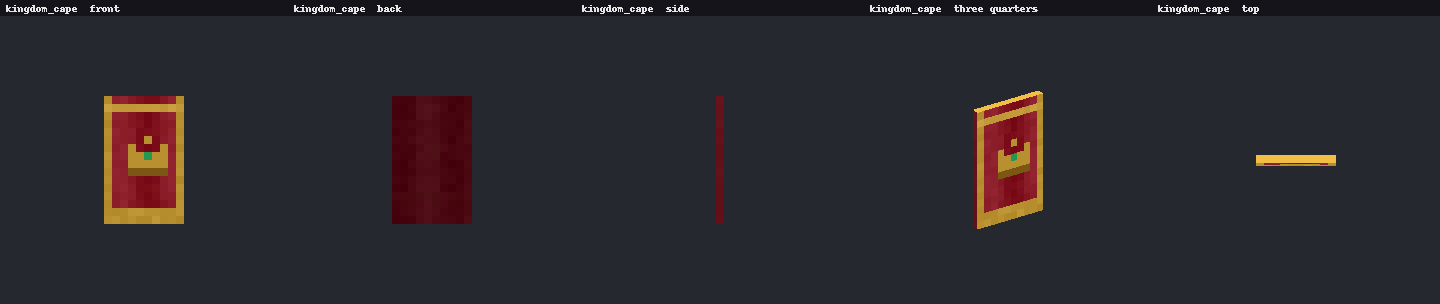
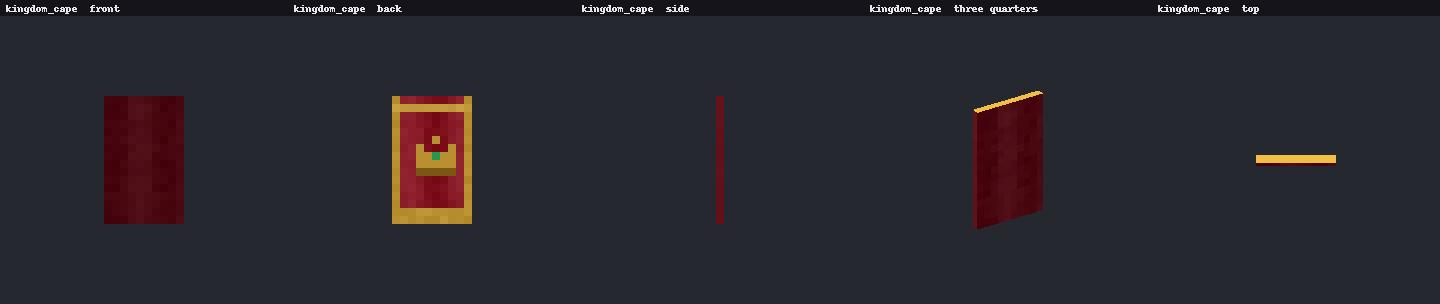
Foundry: back models mirrored front to back instead of turned, so left and right stay put
A display shows a model as it is (north toward -z, +x to +x). Turning back items
half way fixed their front but swapped left and right (wings crossed, pauldron
lames toward the neck). The generator now mirrors the pauldron, cape and wings
front to back, and a gametest pins left and right.

diff --git a/foundry/src/gametest/java/foundry/gametest/WornGameTest.java b/foundry/src/gametest/java/foundry/gametest/WornGameTest.java
@@ -202,6 +202,11 @@ public final class WornGameTest {
         return m.transformDirection(new org.joml.Vector3f(0, 0, -1)).normalize();
     }
 
+    /** A back model is built mirrored front to back, so its outer face is its +z. */
+    private static org.joml.Vector3f outward(org.joml.Matrix4f m) {
+        return m.transformDirection(new org.joml.Vector3f(0, 0, 1)).normalize();
+    }
+
     private static org.joml.Vector3f flat(org.joml.Vector3f v) {
         return new org.joml.Vector3f(v.x, 0, v.z).normalize();
     }
@@ -224,12 +229,31 @@ public final class WornGameTest {
         var cape = foundry.core.WornPlacement.of("chest/cape").orElseThrow();
         var g = front(foundry.mc.WornDisplays.transformFor(wearer, gills));
         // the cape hangs tilted (vanilla's 6 degrees at rest), so only its horizontal facing is compared
-        var c = flat(front(foundry.mc.WornDisplays.transformFor(wearer, cape)));
+        var c = flat(outward(foundry.mc.WornDisplays.transformFor(wearer, cape)));
         helper.assertTrue(near(g, 0, 0, 1), "The gills should face where the head looks (south) but face " + g);
         helper.assertTrue(near(c, 1, 0, 0), "The cape should face out of the back of a body turned west (east) but faces " + c);
         wearer.yBodyRot = 0f;
-        var c2 = flat(front(foundry.mc.WornDisplays.transformFor(wearer, cape)));
+        var c2 = flat(outward(foundry.mc.WornDisplays.transformFor(wearer, cape)));
         helper.assertTrue(near(c2, 0, 0, -1), "Turning the body south should turn the cape to face north but it faces " + c2);
+        helper.succeed();
+    }
+
+    /**
+     * Left and right are never swapped: a back model's +x (the pauldron's lames, the right wing) stays on the player's
+     * right. Facing south, the player's right is west (-x); facing east, it is south (+z).
+     */
+    @GameTest(maxTicks = 20)
+    public void backItemsKeepLeftAndRight(GameTestHelper helper) {
+        ServerPlayer wearer = player(helper, null);
+        var pauldron = foundry.core.WornPlacement.of("chest/back").orElseThrow();
+        wearer.yBodyRot = 0f;
+        var right = flat(foundry.mc.WornDisplays.transformFor(wearer, pauldron).transformDirection(new org.joml.Vector3f(1, 0, 0)));
+        helper.assertTrue(near(right, -1, 0, 0), "Facing south, the pauldron's outward side should point west but points " + right);
+        wearer.yBodyRot = -90f;
+        var right2 = flat(foundry.mc.WornDisplays.transformFor(wearer, pauldron).transformDirection(new org.joml.Vector3f(1, 0, 0)));
+        helper.assertTrue(near(right2, 0, 0, 1), "Facing east, the pauldron's outward side should point south but points " + right2);
+        var at = foundry.mc.WornDisplays.transformFor(wearer, pauldron).getTranslation(new org.joml.Vector3f());
+        helper.assertTrue(at.z > 0.2f, "Facing east, the pauldron should sit on the right (south) shoulder but sits at " + at);
         helper.succeed();
     }
 

diff --git a/foundry/src/main/java/foundry/mc/WornDisplays.java b/foundry/src/main/java/foundry/mc/WornDisplays.java
@@ -504,7 +504,7 @@ public final class WornDisplays {
      *       pitch (crouching lowers the head 4.2 pixels); a body item pivots at the neck too and leans forward half a
      *       radian about the chest while crouching;</li>
      *   <li>the placement's up/back/side offset (heights measured from the feet when standing) and extra rotation, and
-     *       a body item is turned to face out from the back; a swinging item (the cape) hangs from that point and swings back by
+     *       a back item's model is already mirrored to face out from the back; a swinging item (the cape) hangs from that point and swings back by
      *       the cape tilt;</li>
      *   <li>scale, or nothing at all while the player is invisible or asleep.</li>
      * </ol>
@@ -557,10 +557,11 @@ public final class WornDisplays {
             m.rotateX((float) Math.toRadians(-capeTilt));
             m.translate(0, -0.25f * p.scale(), 0);
         }
-        // A model's front (its north face) shows toward the display's -z. A head item keeps that, so it faces forward with
-        // the head; a body item is given a half turn so its front faces out from the back (found in game: without it the
-        // wings and the cape showed their inner side outward).
-        if (!p.onHead()) m.rotateY((float) Math.PI);
+        // A display shows a model as it is: its north face toward the display's -z, its +x to the display's +x. Here -z is
+        // forward and +x is the player's right, so a head model faces forward. Back models (pauldron, cape, wings) are
+        // built mirrored front to back by tools/gen_trinket_models.py so their outer face looks out from the back. A half
+        // turn here instead would also swap left and right (found in game: the wings crossed over and the pauldron's lames
+        // pointed at the neck).
         m.rotateXYZ((float) Math.toRadians(p.rx()), (float) Math.toRadians(p.ry()), (float) Math.toRadians(p.rz()));
         boolean shown = !player.isInvisible() && !player.isSleeping();
         float scale = shown ? p.scale() : 0f;

diff --git a/foundry/tools/gen_trinket_models.py b/foundry/tools/gen_trinket_models.py
@@ -405,6 +405,28 @@ def paint_wings():
     return img
 
 
+# Models worn on the back. An item display shows a model as it is: its north face (-z) toward the display's -z, its +x
+# to the display's +x. A body display sits behind the player with its -z toward their back, so these models are built
+# front first as usual and then mirrored front to back (never turned, which would also swap left and right), so their
+# outer face looks out from the back while the pauldron's lames still point out over the arm.
+BACK_ITEMS = {"forgeman_pauldron", "kingdom_cape", "fairy_wings"}
+
+
+def mirror_front_to_back(el):
+    """The element reflected across the z = 8 plane: north and south faces swap, and turns about x or y reverse."""
+    f, t = el["from"], el["to"]
+    out = {"from": [f[0], f[1], 16 - t[2]], "to": [t[0], t[1], 16 - f[2]], "faces": {}}
+    swap = {"north": "south", "south": "north"}
+    for name, face in el["faces"].items():
+        out["faces"][swap.get(name, name)] = face
+    if "rotation" in el:
+        r = el["rotation"]
+        o = list(r["origin"])
+        o[2] = 16 - o[2]
+        out["rotation"] = {"origin": o, "axis": r["axis"], "angle": -r["angle"] if r["axis"] in ("x", "y") else r["angle"]}
+    return out
+
+
 def main():
     os.makedirs(MODELS, exist_ok=True)
     os.makedirs(TEXTURES, exist_ok=True)
@@ -414,6 +436,8 @@ def main():
     built["kingdom_cape"] = (cape_model(), paint_cape())
     built["fairy_wings"] = (wings_model(), paint_wings())
     for name, (elements, texture) in built.items():
+        if name in BACK_ITEMS:
+            elements = [mirror_front_to_back(e) for e in elements]
         model = {
             "textures": {"0": f"kingdoms:item/worn/{name}", "particle": f"kingdoms:item/worn/{name}"},
             "elements": elements,
